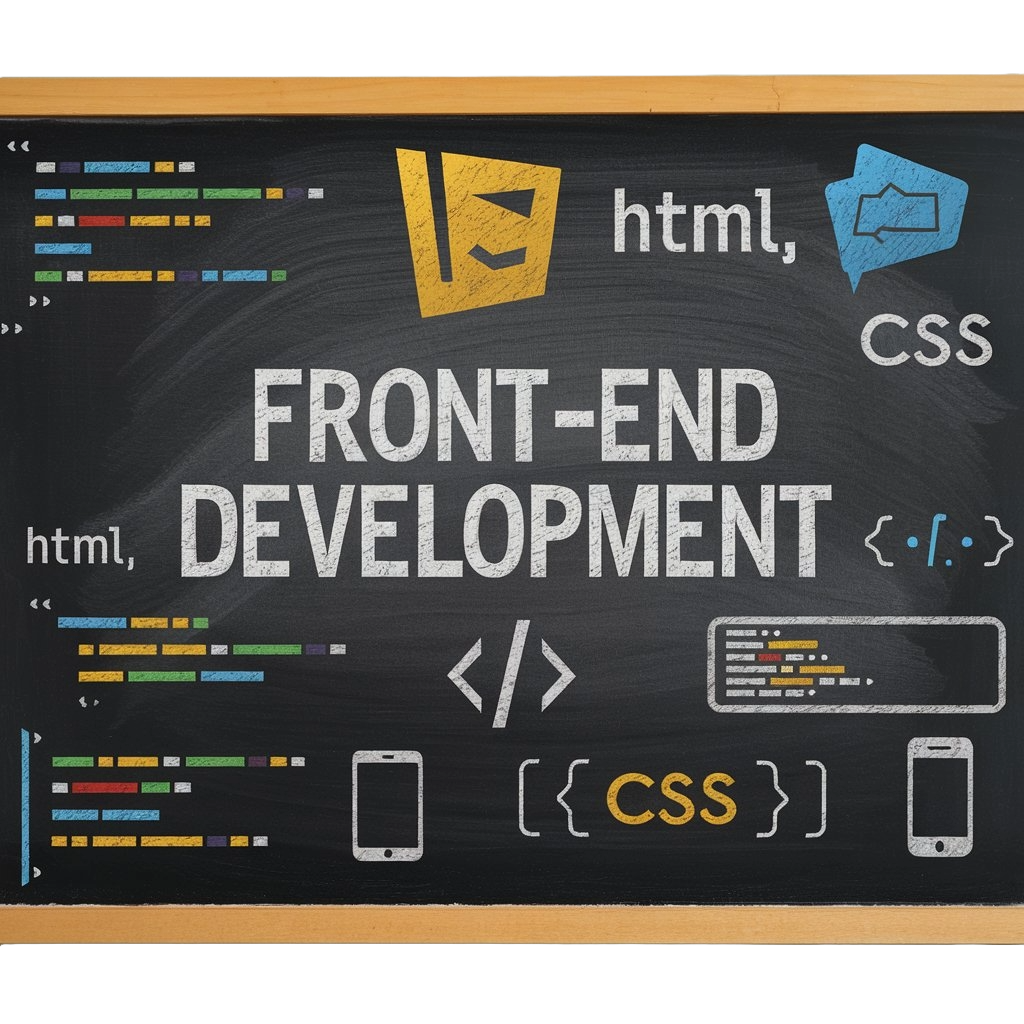
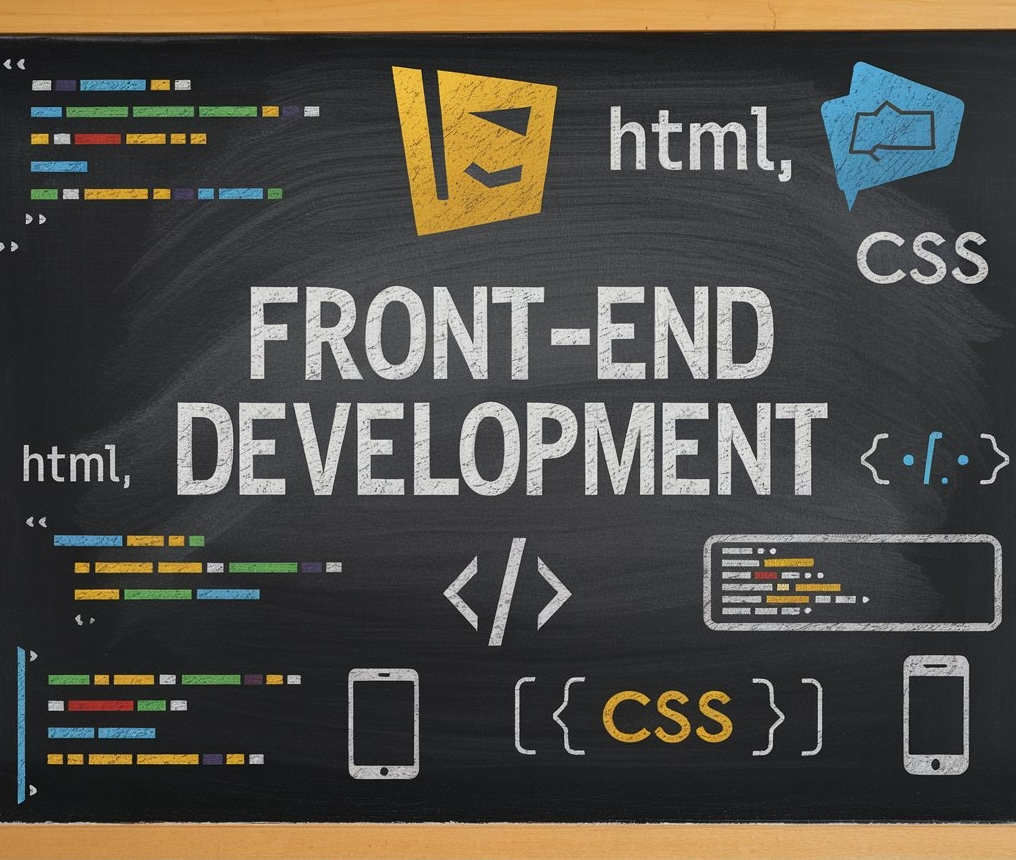
Alterar imagem e a borda

diff --git a/index.html b/index.html
@@ -40,11 +40,10 @@
     </main>
     <footer>
         <div>
-            <a href="https://www.facebook.com/brunovieirabvm" target="_blank" rel="noopener noreferrer"></a>
-            <a href="https://www.instagram.com/brunovieirabvm" target="_blank" rel="noopener noreferrer"></a>
+            <a href="https://www.facebook.com/brunovieirabvm/" target="_blank" rel="noopener noreferrer"></a>
+            <a href="https://www.instagram.com/brunovieirabvm/" target="_blank" rel="noopener noreferrer"></a>
             <a href="https://www.linkedin.com/in/brunovieirabvm/" target="_blank" rel="noopener noreferrer"></a>
         </div>
-        <hr>
         <p>&copy; 2021 - Bruno Vieira. Todos os direitos reservados.</p>
     </footer>
 </body>

diff --git a/assets/css/style.css b/assets/css/style.css
@@ -111,8 +111,8 @@ body {
     display: flex;
     justify-content: center;
     gap: 10px;
-    font-family: var(--font-family-primary);
-    font-size: 24px;
+    font-family: var(--font-family-secondary);
+    font-size: 26px;
     font-weight: 600;
     border: 3px solid var(--color-tertiary);
     background-color: var(--color-primary);
@@ -127,10 +127,11 @@ body {
 .presentation_btn:hover {
     background-color: var(--color-hover);
     color: var(--color-primary);
-
+    
 }
 
 .main-content_img {
-    width: 50%;
+    width: 650px;
     height: auto;
+    border-radius: 10px;
 }
